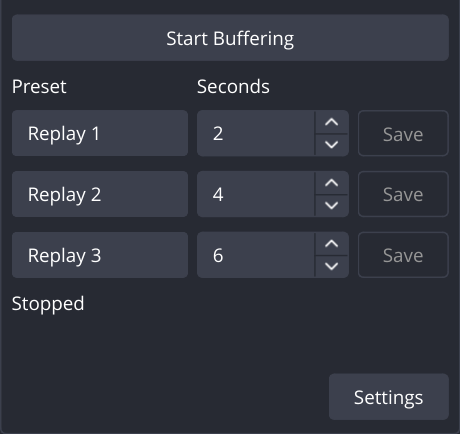
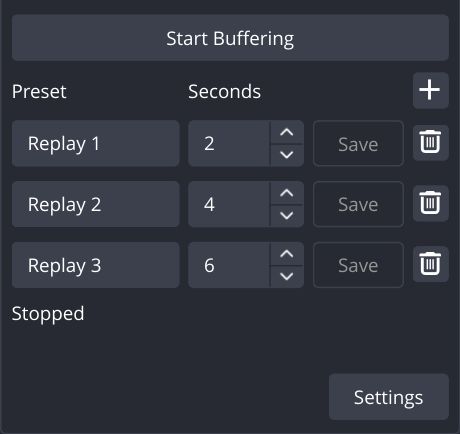
Keep preset names readable and record preset validation
Cap the seconds box at the width of its longest value so the trash column
does not squeeze the names, refresh the README dock screenshot, fix the UI
test helper for a three-preset profile, and record the new UI scenarios.

Changed region(s): [[0.0304, 0.1797, 0.9739, 0.7488], [0.8217, 0.1498, 0.9739, 0.3894], [0.8217, 0.5691, 0.9739, 0.659]]

diff --git a/src/integration_test.cpp b/src/integration_test.cpp
@@ -717,6 +717,8 @@ public:
                 "added presets start at 60 seconds");
       testCheck(registeredPresetHotkeys() == presetHotkeyNames(maxPresets), "each added preset gets a save hotkey");
       testCheck(dialog->presetFolders.size() == size_t(maxPresets), "the settings window has a folder per preset");
+      dock->rows[0].seconds->setValue(maxPresetSeconds);
+      dock->grab().save(output + "/presets-longest.png"); // The longest length must stay readable.
       for (int i = 0; i < maxPresets; ++i) {
         dock->rows[i].seconds->setValue(i + 2);
         dock->rows[i].name->setText(nameFor(i + 1));

diff --git a/src/replay_dock.cpp b/src/replay_dock.cpp
@@ -90,7 +90,7 @@ ReplayDock::Row ReplayDock::makeRow(const Preset &preset)
   row.seconds->setValue(preset.seconds);
   // Wide enough for the longest value plus the arrows; the rest goes to the name.
   row.seconds->setMaximumWidth(row.seconds->fontMetrics().horizontalAdvance(QString::number(maxPresetSeconds)) +
-                               4 * row.seconds->fontMetrics().height());
+                               3 * row.seconds->fontMetrics().height());
   row.save = new QPushButton("Save", this);
   row.remove = iconButton(this, "×", "icon-trash");
   row.remove->setToolTip("Remove this preset");

diff --git a/docs/VALIDATION.md b/docs/VALIDATION.md
@@ -28,6 +28,8 @@ Hosted CI does not exercise real capture with GPU encoders, desktop hotkeys, int
 - profile switching, restart persistence, hotkeys and encoder sharing with recording pause/resume;
 - the encoder reset warning.
 
+Configurable presets (one to eight) add the `presets` and `presets-restore` scenarios, which passed on 2026-11-06 with the same setup. They check that a new profile starts with two presets, that **+** stops at eight, and that removing preset 3 moves the later names, lengths, folders and hotkey bindings up. They also check that unapplied window edits survive, that presets lock while buffering, that the last preset saves to its own folder, and that everything is restored after a restart. With that change, every earlier scenario above passed again; they now add a third preset first, because new profiles start with two.
+
 The `shared` and `folders` scenarios need the Advanced NVENC template, as the next section explains.
 
 ## Known issue found during testing

diff --git a/README.md b/README.md
@@ -8,7 +8,7 @@ Save several replay lengths from one encoded memory buffer in OBS Studio, with a
 **Experimental — installers under validation.** Version `0.1.2` provides simple Windows batch installers and a single-file Linux Flatpak installer. Native acceptance of the latest batch package is pending CI. Release automation prepares an unpublished draft for testing.
 
 <p align="center">
-  <img src="docs/images/replay-dock.png" alt="Multi-Length Replay dock with three preset save buttons, Start Buffering, and Settings" width="360">
+  <img src="docs/images/replay-dock.png" alt="Multi-Length Replay dock with three presets, each with Save and remove buttons, an add button, Start Buffering, and Settings" width="360">
 </p>
 
 *The dock with customized 2, 4, and 6 second presets. New profiles start with two presets, 60 and 240 seconds; add up to eight.*
